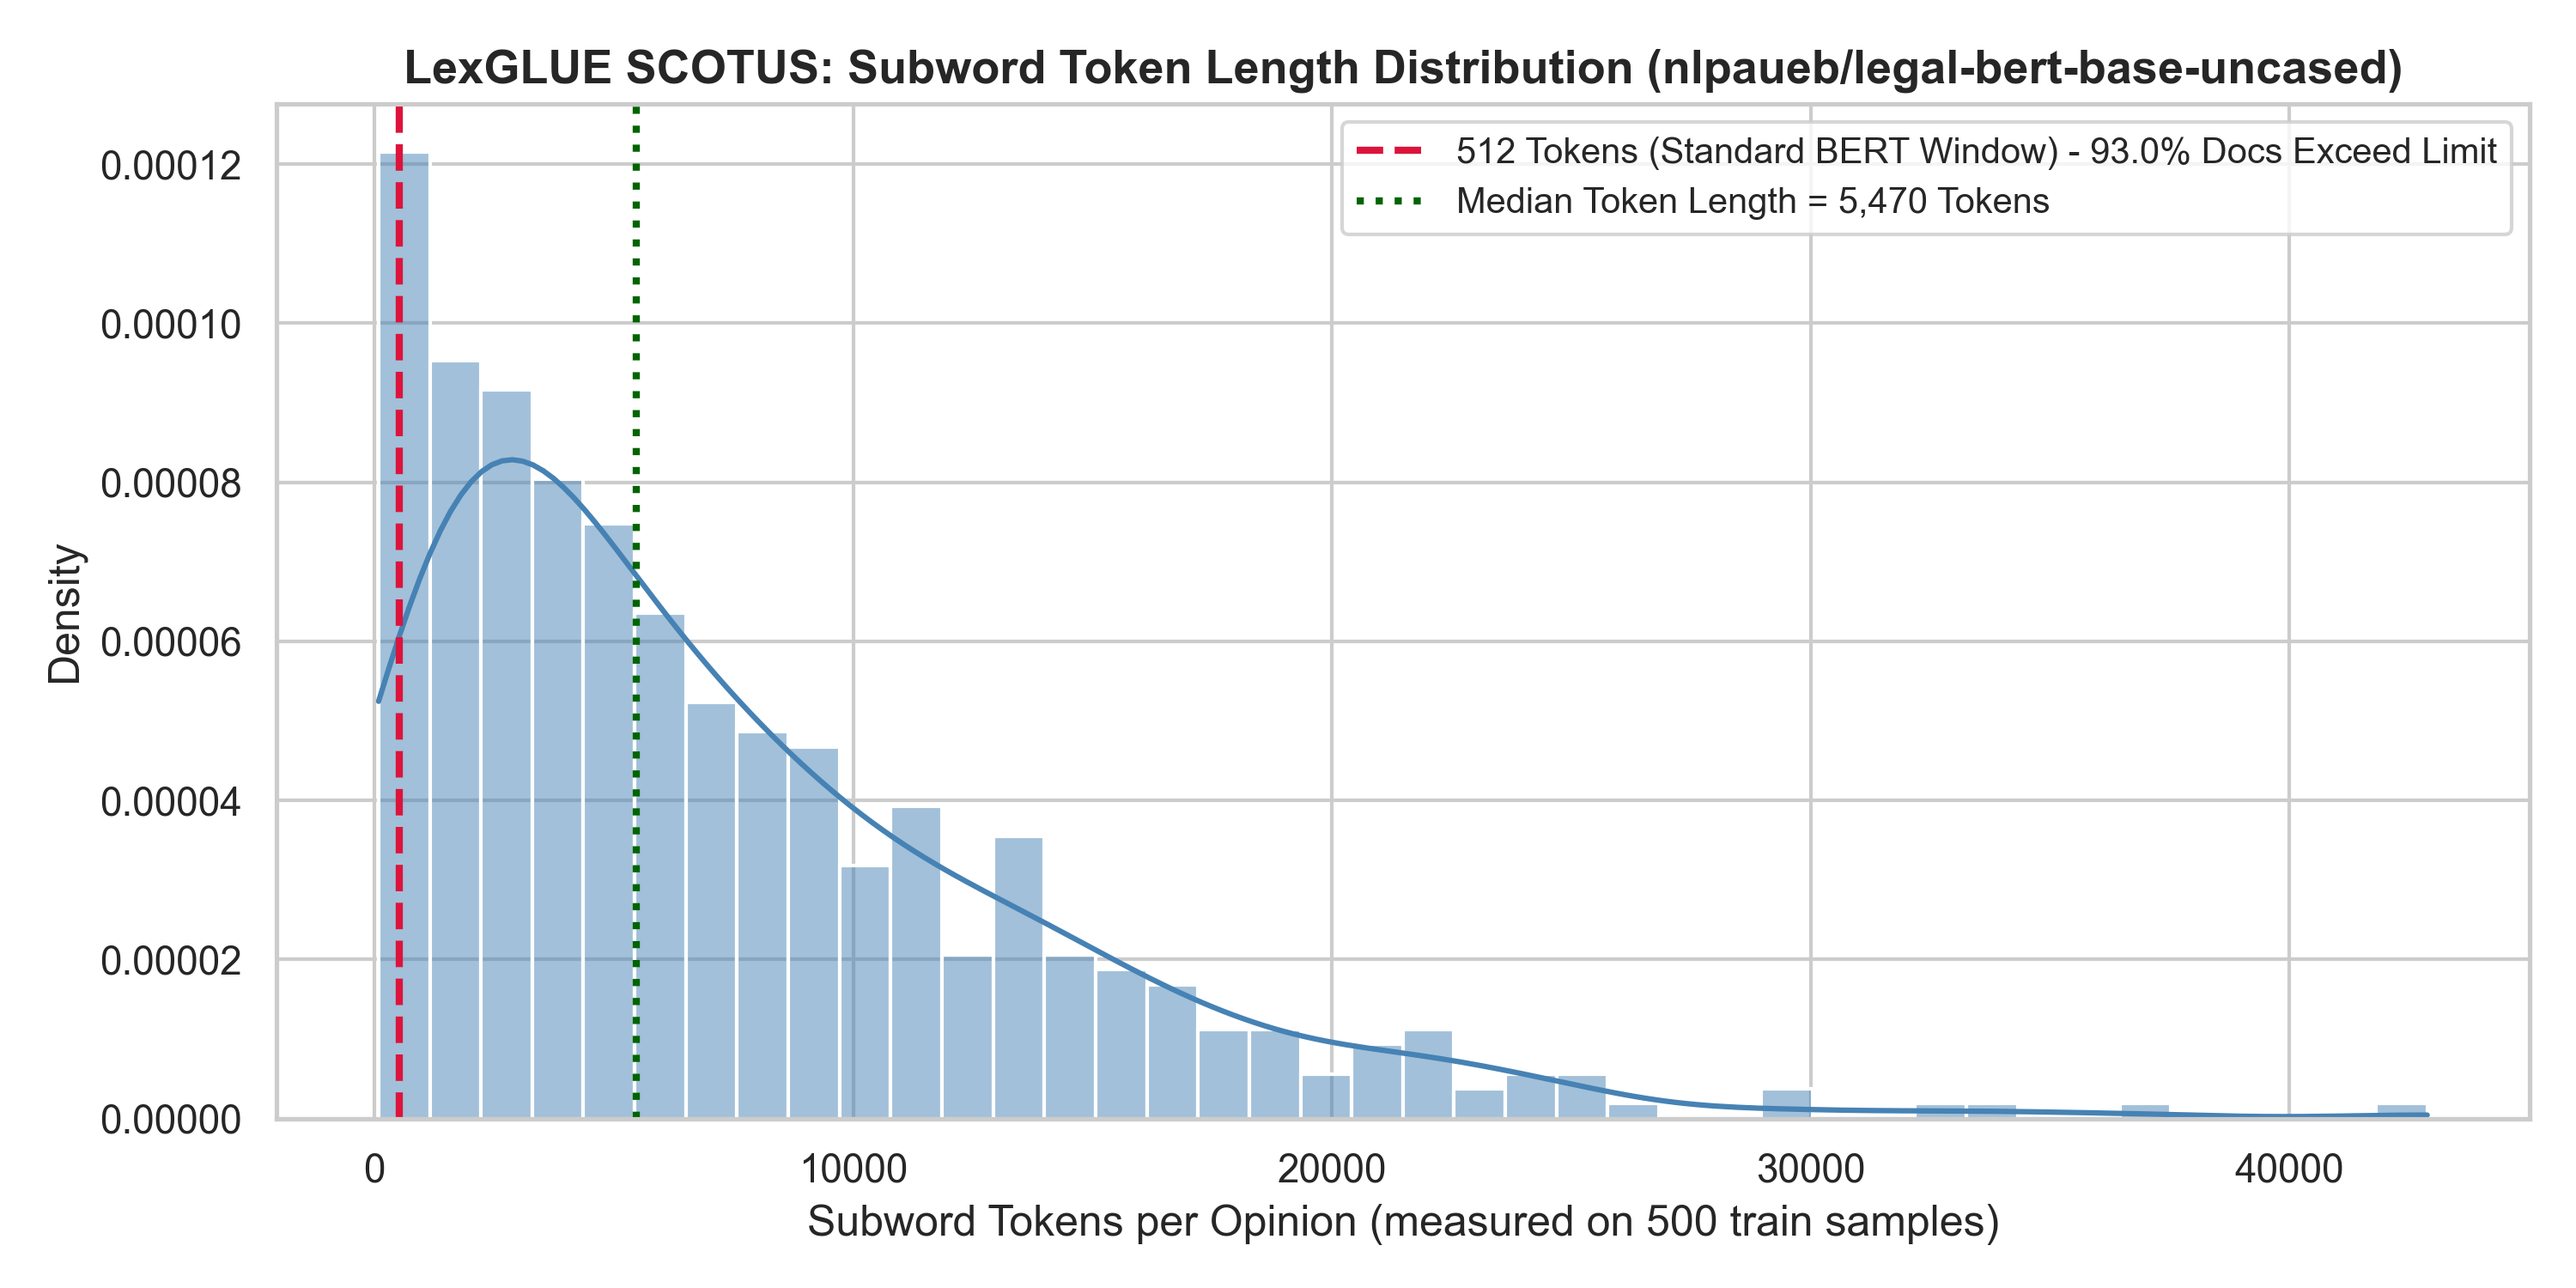
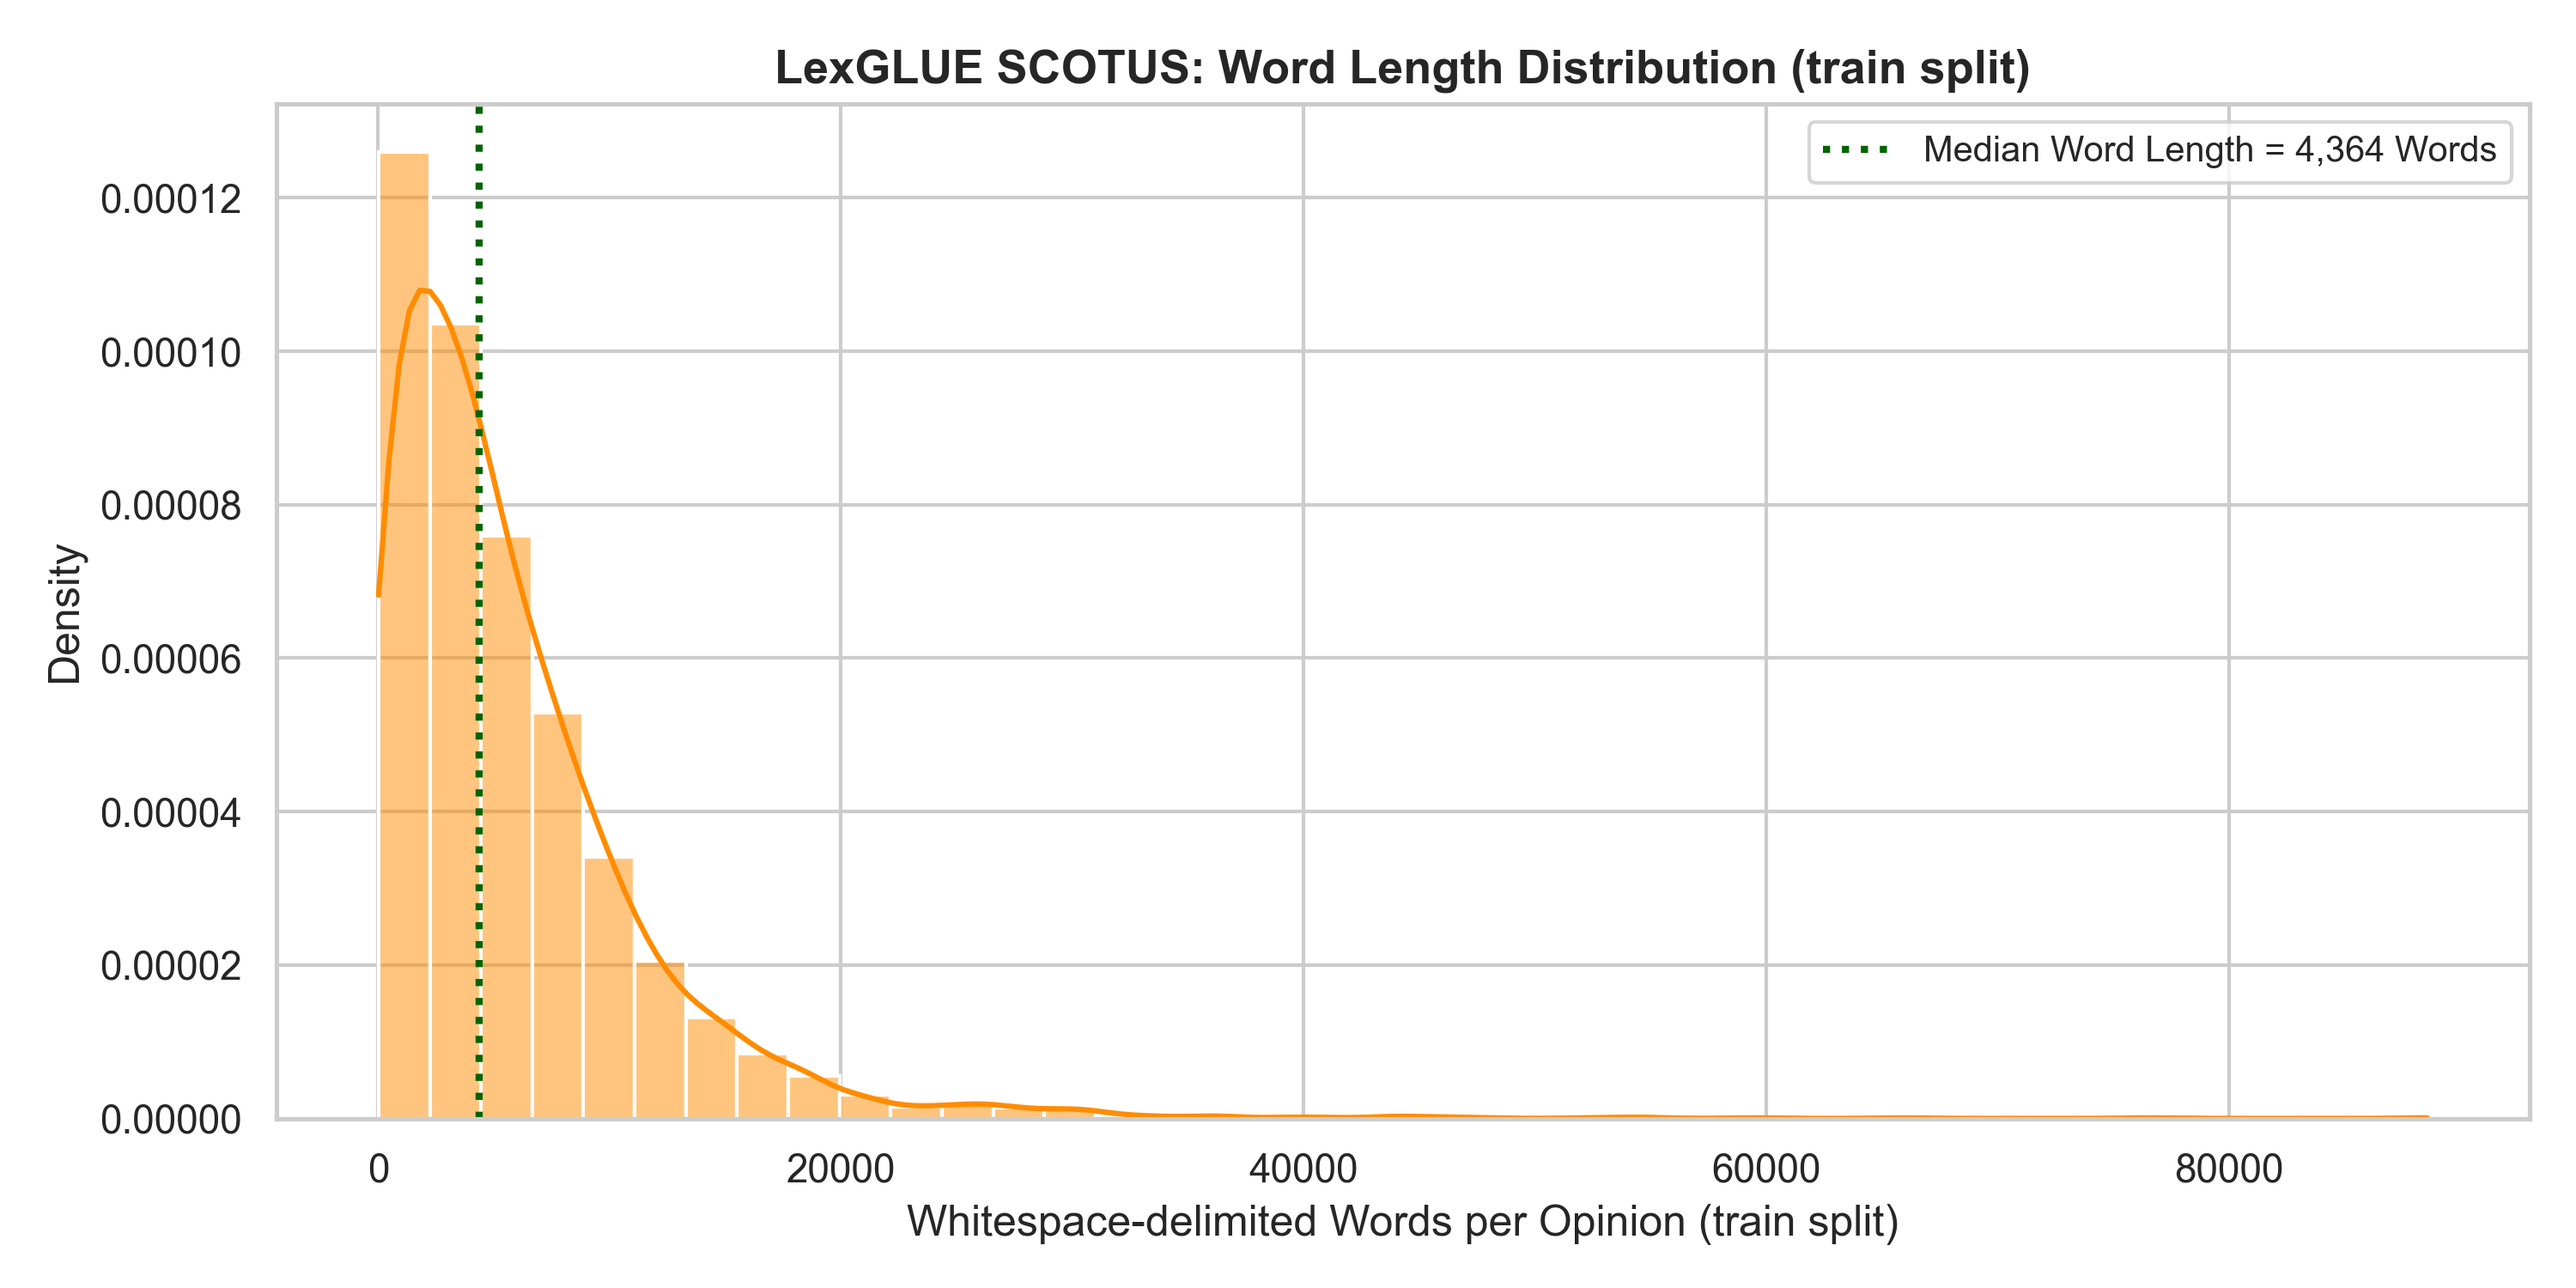
docs: close phase 3 audit fixes

diff --git a/scripts/01_run_eda.py b/scripts/01_run_eda.py
@@ -260,7 +260,20 @@ def run_eda():
     plt.legend(fontsize=10)
     plt.tight_layout()
     plt.savefig("results/figures/token_length_histogram.png", dpi=300)
-    # Also save as document_length_histogram.png to keep filename compatibility
+
+    # Figure 3: WORD-LENGTH HISTOGRAM, kept separate from tokenizer statistics.
+    word_counts_train = all_word_counts["train"]
+    plt.figure(figsize=(10, 5))
+    sns.histplot(word_counts_train, bins=40, kde=True, color="darkorange", stat="density")
+    plt.axvline(length_stats["train"]["word_count_median"], color="darkgreen", linestyle=":",
+                linewidth=2.0,
+                label=f"Median Word Length = {int(length_stats['train']['word_count_median']):,} Words")
+    plt.title("LexGLUE SCOTUS: Word Length Distribution (train split)",
+              fontsize=13, weight="bold")
+    plt.xlabel("Whitespace-delimited Words per Opinion (train split)", fontsize=12)
+    plt.ylabel("Density", fontsize=12)
+    plt.legend(fontsize=10)
+    plt.tight_layout()
     plt.savefig("results/figures/document_length_histogram.png", dpi=300)
     plt.close()
 

diff --git a/README.md b/README.md
@@ -19,12 +19,12 @@ This project reproduces and extends the methodology investigated by Krithika Iye
 | Component | Reference Paper (Iyer 2020) | Our Implementation & Reproduction | Status / Notes |
 |:---|:---|:---|:---|
 | **Dataset Source** | `textacy` scrape (~8,200 opinions) | LexGLUE SCOTUS (`coastalcph/lex_glue`) | Verified public benchmark, non-leaking splits |
-| **Splitting Method** | Random unseeded split | Chronological split (1946–1982 train, 1982–1991 val, 1991–2016 test) | Eliminates look-ahead bias |
-| **Class Taxonomy** | 15 issue areas / 279 issue codes | 13 active SCDB issue areas (0-12) | SCDB Area 14 ('Private Action') has 0 cases in modern era |
+| **Splitting Method** | Random unseeded split | Chronological split recorded by LexGLUE metadata (1946–1982 train, 1982–1991 val, 1991–2016 test) | Intended to evaluate temporal generalization; the exact boundary dates are attributed to the LexGLUE dataset card, not the paper |
+| **Class Taxonomy** | 15 issue areas / 279 issue codes | 13 active SCDB issue areas (0-12) | Class 14 ('Private Action') is absent from the adopted LexGLUE SCOTUS corpus; see `docs/DATASET_DECISION.md` |
 | **Classical Baselines**| None | TF-IDF + Logistic Regression, TF-IDF + LinearSVC | Essential classical benchmarks |
 | **Topic Modeling** | LDA (TF-IDF input) + Logistic Regression | LDA (Count input, topic sweep $K \in \{10,20,30,40\}$) + LR | Primary input uses count frequencies; TF-IDF difference noted |
 | **Document Vectors** | Doc2Vec + Logistic Regression | Doc2Vec (PV-DBOW / PV-DM, fit strictly on train) + LR | Exact inference hygiene on val/test |
-| **Transformer** | Failed (Ran out of memory on Colab; no results) | Fine-tuned `nlpaueb/legal-bert-base-uncased` | Resumable training, GPU Colab runbook, honest 512-token analysis |
+| **Transformer** | Failed (Ran out of memory on Colab; no results) | Fine-tuned `nlpaueb/legal-bert-base-uncased` (planned full GPU run) | Only a 20-sample CPU smoke test is currently recorded; it is not an experimental result |
 | **Interactive Demo**| None | Streamlit Web Application (`app.py`) | Interactive opinion classifier with probability breakdown |
 | **Test Suite** | None | Pytest unit test suite (`tests/`) | Validates data hygiene, preprocessing, leakage, and models |
 
@@ -40,7 +40,7 @@ From Phase 3 Exploratory Data Analysis (`results/dataset_info.json`, `results/ed
   `Criminal Procedure`, `Civil Rights`, `First Amendment`, `Due Process`, `Privacy`, `Attorneys`, `Unions`, `Economic Activity`, `Judicial Power`, `Federalism`, `Interstate Relations`, `Federal Taxation`, `Miscellaneous`.
 - **Class Imbalance**: Imbalance ratio of 347.7:1 between Economic Activity (1,043 train docs) and Miscellaneous (3 train docs).
 - **Primary Metric**: **Macro-averaged F1 Score** (Majority-class test baseline achieves 18.57% accuracy and 0.0241 Macro F1).
-- **Subword Token Lengths** (`legal-bert-base-uncased`): Median 5,470.5 tokens; 93.0% of documents exceed 512 tokens.
+- **Subword Token Lengths** (`legal-bert-base-uncased`): Median 5,470.5 tokens; 93.0% of documents exceed 512 tokens in the measured 500-document train sample (see `results/eda_stats.json`).
 
 ---
 
@@ -53,12 +53,11 @@ legal-text-classification/
 ├── .gitignore                # Filters caches, checkpoints, and spreadsheets
 ├── src/                      # Reusable modular source code
 │   ├── data.py               # Dataset loading, schema validation, duplicate audit
-│   ├── preprocess.py         # Legal text normalization and stopword handling
-│   ├── features.py           # Feature extractors (TF-IDF, Bag-of-Words)
-│   ├── models_classical.py   # Baseline Logistic Regression and LinearSVC
-│   ├── models_topic.py       # LDA and Doc2Vec models
-│   ├── models_transformer.py # Transformer fine-tuning module
-│   ├── evaluate.py           # Unified evaluation routines
+│   ├── preprocess.py         # Legal text normalization and train-only vectorizer fitting
+│   ├── models_classical.py   # (planned) Baseline Logistic Regression and LinearSVC
+│   ├── models_topic.py       # (planned) LDA and Doc2Vec models
+│   ├── models_transformer.py # (planned) Transformer fine-tuning module
+│   ├── evaluate.py           # (planned) Unified evaluation routines
 │   └── utils.py              # Hardware detection, seeds, and metric I/O
 ├── scripts/                  # Standalone execution stages
 │   ├── 01_run_eda.py         # Dataset validation & EDA report
@@ -70,8 +69,8 @@ legal-text-classification/
 │   ├── eda_stats.json        # Class counts and token percentiles
 │   ├── majority_baseline.json# Majority class baseline metrics
 │   ├── figures/              # Class distribution and token length plots
-│   ├── transformer_predictions.npz # Model prediction outputs
-│   └── transformer_run_info.json   # Hardware provenance and run logs
+│   ├── transformer_predictions.npz # Smoke-test placeholder; not reportable until replaced by a GPU run
+│   └── transformer_run_info.json   # Smoke-test provenance; not reportable until replaced by a GPU run
 ├── docs/                     # Documentation and audit logs
 │   ├── Guidelines.pdf        # University guidelines
 │   ├── OPEN_ISSUES.md        # Ambiguity register
@@ -103,7 +102,7 @@ pip install -r requirements.txt
 # 4. Run EDA & verify data
 python scripts/01_run_eda.py
 
-# 5. Run Transformer (smoke test on CPU or full on GPU)
+# 5. Run Transformer smoke test (full training is planned for GPU)
 python scripts/04_train_transformer.py --smoke_test
 ```
 For running the full Legal-BERT model on Google Colab or Kaggle GPU, see [`docs/COLAB_RUNBOOK.md`](docs/COLAB_RUNBOOK.md).

diff --git a/docs/reference_notes.md b/docs/reference_notes.md
@@ -68,11 +68,11 @@ To create a rigorous, university-level, defensible project:
 
 | Component | Paper Method | Our Reproduction & Planned Extension | Rationale |
 | :--- | :--- | :--- | :--- |
-| **Dataset** | `textacy` scrape (~8,200 docs) | LexGLUE SCOTUS candidate (`coastalcph/lex_glue`) [UNVERIFIED, to be confirmed in Phase 3] | Public benchmark with standardized train/val/test splits to eliminate leakage and enable exact reproducibility. |
+| **Dataset** | `textacy` scrape (~8,200 docs) | LexGLUE SCOTUS (`coastalcph/lex_glue`) [VERIFIED in `results/dataset_info.json`] | Public benchmark with standardized train/validation/test splits and the duplicate audit recorded in `results/eda_stats.json`. |
 | **Baselines** | None (jumped straight to LDA) | TF-IDF + Logistic Regression, TF-IDF + LinearSVC [PLANNED] | Essential classical ML baselines required for sound empirical comparison. |
 | **Topic Modeling** | LDA (gensim) + LR | LDA (sklearn/gensim) + LR with topic sweep [PLANNED] | Systematically sweeps number of latent topics ($K \in \{10, 20, 30, 40\}$) tuned on validation set. |
 | **Document Vectors** | Doc2Vec (gensim) + LR | Doc2Vec (`gensim.models.Doc2Vec`) + LR [PLANNED] | Rigorous split hygiene: Doc2Vec trained strictly on train split; vectors inferred for val/test. |
-| **Transformer** | Failed (OOM, checkpoint not specified) | `nlpaueb/legal-bert-base-uncased` fine-tuning [PLANNED] | Memory-safe training on GPU/CPU with honest 512-token truncation analysis. |
+| **Transformer** | Failed (OOM, checkpoint not specified) | `nlpaueb/legal-bert-base-uncased` fine-tuning [PLANNED] | Only the 20-sample CPU smoke test is recorded; full GPU training remains planned. |
 | **Evaluation** | Accuracy + partial F1 table | Unified evaluation pipeline [PLANNED] | Macro & weighted Precision/Recall/F1, Confusion Matrix, Error Analysis on test split. |
 | **Interactive Demo**| None | Streamlit Application [PLANNED] | Real-time prediction, probability breakdown, sample opinion loader, token length warning. |
 | **Unit Testing** | None | Pytest test suite [PLANNED] | Tests schema integrity, preprocessing, data leakage prevention, model training, evaluation logic. |

diff --git a/docs/DATASET_DECISION.md b/docs/DATASET_DECISION.md
@@ -10,7 +10,7 @@
 ---
 
 ## 2. Dataset Splitting Methodology & Comparison with Reference Paper
-- **LexGLUE SCOTUS Split Method**: **Chronological Partitioning**.
+- **LexGLUE SCOTUS Split Method**: **Chronological Partitioning**, as described by the [LexGLUE SCOTUS dataset card](https://huggingface.co/datasets/coastalcph/lex_glue).
   - **Training split**: 5,000 cases decided between **1946 and 1982**.
   - **Validation split (dev)**: 1,400 cases decided between **1982 and 1991**.
   - **Test split**: 1,400 cases decided between **1991 and 2016**.
@@ -37,7 +37,7 @@
   12. Federal Taxation
   13. Miscellaneous
   14. Private Action
-- **Zero-Example Issue Area**: In the modern SCDB time window (1946–2016) used for LexGLUE SCOTUS, **Class 14 ('Private Action') has zero cases** across the entire corpus. In the reference paper (Iyer 2020, Table 2), the author likewise observed `# Docs: 0` for Private Action.
+- **Zero-Example Issue Area**: The [SCDB codebook](https://scdb.wustl.edu/documentation.php?var=version) defines Class 14 as 'Private Action'. The adopted LexGLUE SCOTUS corpus has no active Class 14 examples, as recorded in `results/dataset_info.json`; the reference paper (Iyer 2020, Table 2) likewise observed `# Docs: 0` for Private Action.
 - Consequently, `coastalcph/lex_glue` encodes exactly **13 active classes** with raw string IDs `'1'` through `'13'`, mapped to zero-indexed integers `0` through `12`.
 
 ---
@@ -94,7 +94,7 @@
 
 ## 5. Measured Token Statistics & Opening Text Observations
 
-### A. Subword Token Statistics (`nlpaueb/legal-bert-base-uncased`, N=500 random train decisions)
+### A. Subword Token Statistics (`nlpaueb/legal-bert-base-uncased`, N=500 random train decisions; measured by `scripts/01_run_eda.py`)
 - **Minimum**: 84 tokens
 - **25th Percentile**: 2,334.0 tokens
 - **Median**: **5,470.5 tokens**

diff --git a/docs/OPEN_ISSUES.md b/docs/OPEN_ISSUES.md
@@ -48,8 +48,6 @@ This document records ambiguities, discrepancies, and verified constraints ident
 
 ### Issue 4: Dataset Candidate Verification (LexGLUE SCOTUS)
 - **Source**: Candidate dataset proposed for reproduction and extension.
-- **Current Status**: **UNVERIFIED, to be confirmed in Phase 3**.
+- **Current Status**: **RESOLVED**; verified in `results/dataset_info.json` and `results/eda_stats.json`.
 - **Items to Verify**:
-  - Exact split sizes (train, validation, test) are unverified until loaded in Phase 3.
-  - Number of target classes and label schema alignment with SCDB issue areas are unverified until loaded in Phase 3.
-  - Column schema, missing values, duplicates, and token length distribution must be verified programmatically and saved directly to `results/dataset_info.json`.
+  - Exact split sizes, target classes, schema, missing values, duplicates, and measured token statistics are recorded in `results/dataset_info.json` and `results/eda_stats.json`.

diff --git a/docs/COLAB_RUNBOOK.md b/docs/COLAB_RUNBOOK.md
@@ -5,7 +5,7 @@
 ---
 
 ## 1. Overview
-Supreme Court decisions are long, and fine-tuning BERT on 5,000 training examples takes ~15–25 minutes on a free Google Colab T4 GPU (or Kaggle GPU), whereas CPU execution is slow.
+Supreme Court decisions are long, and CPU execution is slow. GPU runtime for the full run is **UNMEASURED** in this repository; record the actual elapsed time in `results/transformer_run_info.json` after the team completes the run.
 
 This runbook explains how to run `scripts/04_train_transformer.py` on Google Colab / Kaggle, download the predictions and run metadata, and place them directly in your local `results/` folder.
 
